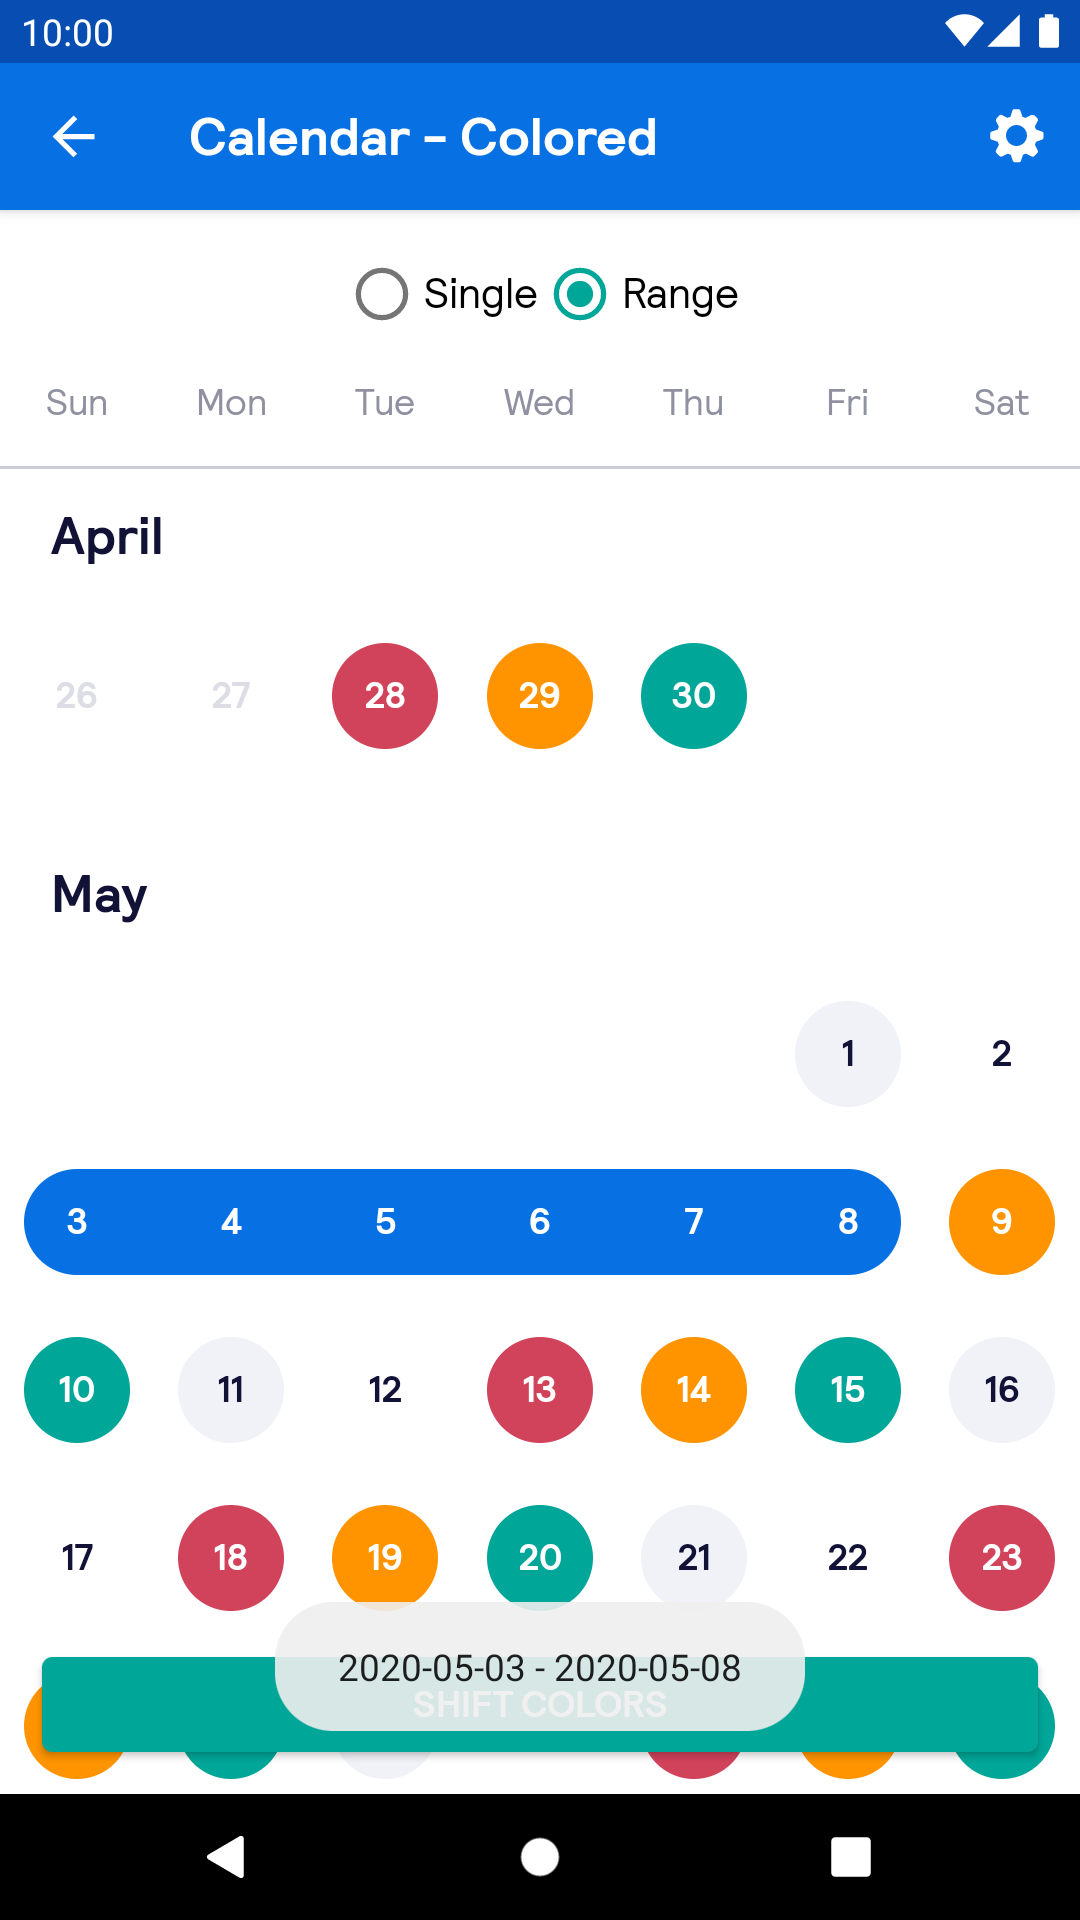
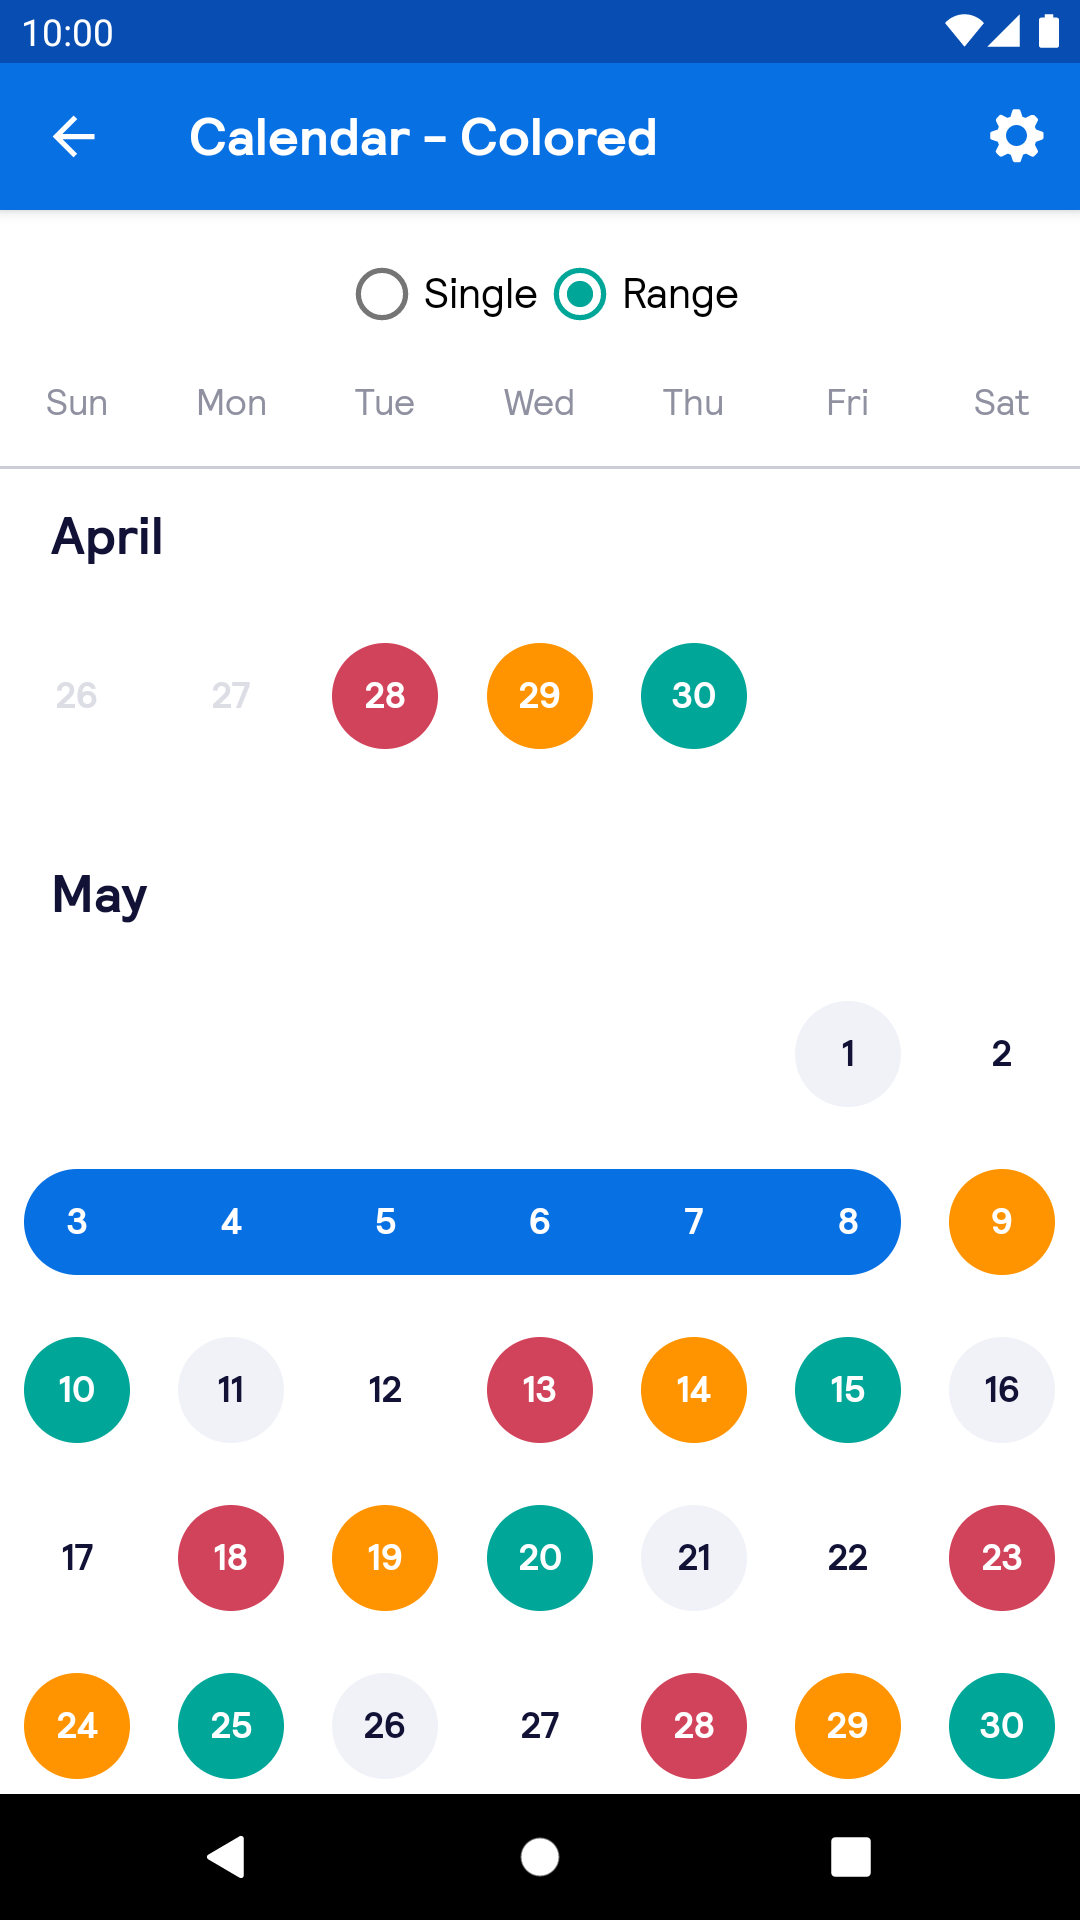
[BPK-3465]: Updated to hide debug info in screenshots

Changed region(s): [[0.0306, 0.8125, 0.9778, 0.9375]]

diff --git a/app/src/main/java/net/skyscanner/backpack/demo/stories/ColoredCalendarStory.kt b/app/src/main/java/net/skyscanner/backpack/demo/stories/ColoredCalendarStory.kt
@@ -20,13 +20,17 @@ class ColoredCalendarStory : Story() {
   override fun onViewCreated(view: View, savedInstanceState: Bundle?) {
     super.onViewCreated(view, savedInstanceState)
 
-    controller = ExampleBpkCalendarController(requireContext())
+    val automationMode = arguments?.getBoolean(AUTOMATION_MODE) ?: false
+    controller = ExampleBpkCalendarController(requireContext(), SelectionType.RANGE, false, automationMode)
     val bpkCalendar = view.findViewById<BpkCalendar>(R.id.bpkCalendar)
     controller.isColoredCalendar = true
     initSelectionTypeSwitcher()
     shiftColorsButton.setOnClickListener {
       controller.newColors()
       controller.updateContent()
+    }
+    if (automationMode) {
+      shiftColorsButton.visibility = View.INVISIBLE
     }
     bpkCalendar.setController(controller)
   }
